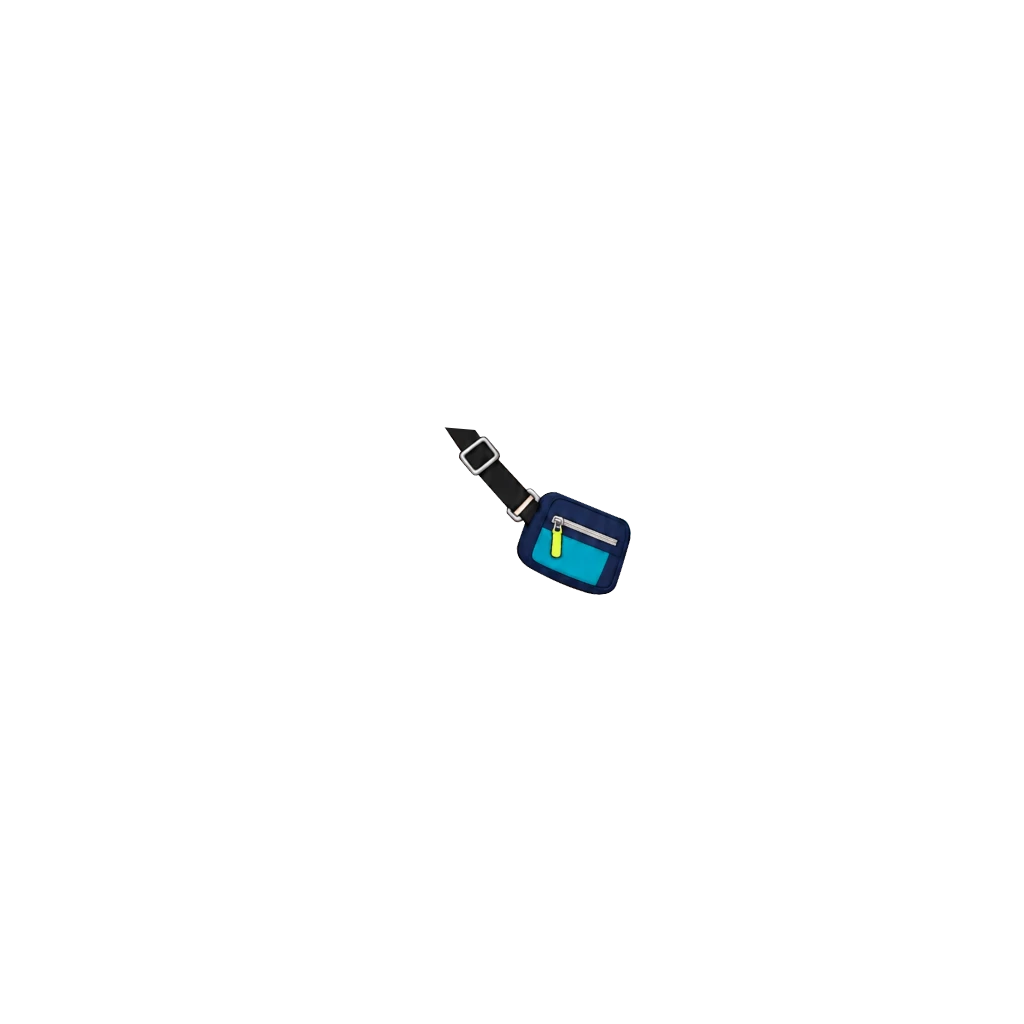
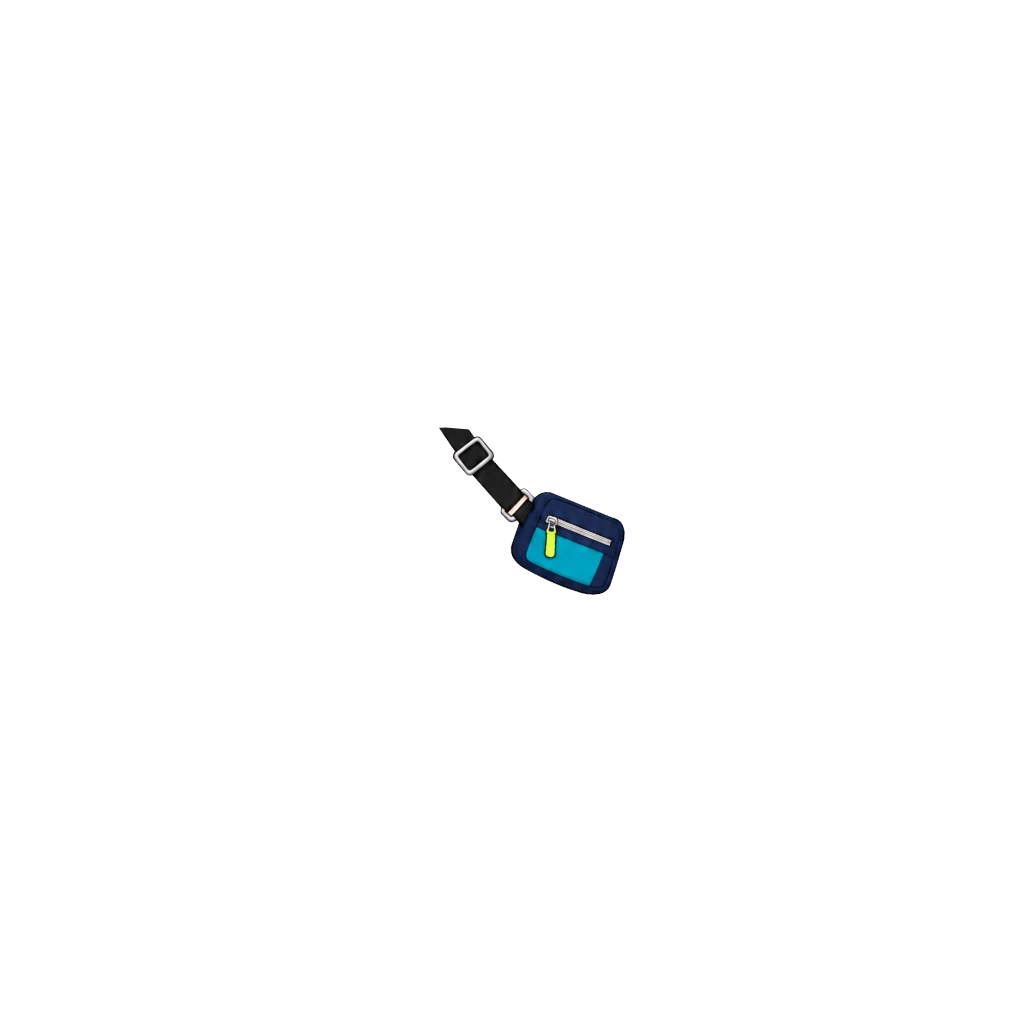
번개 크로스백(번개 스케이터): 왼쪽으로 6, 끈 윗끝은 후드 아래 선에 다시 맞춤 (#1000)
Claude-Session: https://claude.ai/code/session_018maNuYqDfFyRSe9uKpZhPR

Changed region(s): [[0.4375, 0.4062, 0.625, 0.5938]]

diff --git a/src/data/avatarEquipment.js b/src/data/avatarEquipment.js
@@ -523,8 +523,9 @@ export const AVATAR_CATALOG = [
      사용자 참고 그림(얼굴 매칭 0.965)대로 왼쪽 어깨(452,418)에서 오른쪽 가슴 아래로 — 끈 윗끝·노란 지퍼 고리(556,543) 두 점 맞춤, 배율 0.723·-6.0°.
      옷 위·목 장식 아래 z 38. 상자 (434,411,631,595).
      [2026-10-11] 번개 스케이터만 — 끈 윗끝을 후드 아래 접힌 선(425,428)→(475,430)에서 잘라 후드 밑에서 나오게, 그 선을 후드 선 색으로 이어 그림(topVariant).
-     다른 옷은 후드가 없어 자르면 끈이 떠 보여 그대로. */
-  { id: "back_cross_boy", slot: "back", label: "번개 크로스백", emoji: "⚡", price:DECOR_PRICE.rare, rarity: "rare", theme: "common", forGender: "boy", z: 38, img: "assets/avatar/back/cross-bag-boy.webp", topVariant: { top_board_boy: { img: "assets/avatar/back/cross-bag-board-boy.webp" } }, thumb: "assets/avatar/thumb/back_cross_boy.webp" },
+     다른 옷은 후드가 없어 자르면 끈이 떠 보여 그대로.
+     [2026-10-11] 번개 스케이터 — 가방 전체 왼쪽으로 6(끈 윗끝 (446,418)·지퍼 고리 (550,543)), 다시 후드 아래 선에서 자름(?v=2). */
+  { id: "back_cross_boy", slot: "back", label: "번개 크로스백", emoji: "⚡", price:DECOR_PRICE.rare, rarity: "rare", theme: "common", forGender: "boy", z: 38, img: "assets/avatar/back/cross-bag-boy.webp", topVariant: { top_board_boy: { img: "assets/avatar/back/cross-bag-board-boy.webp?v=2" } }, thumb: "assets/avatar/thumb/back_cross_boy.webp" },
   /* 들꽃 크로스백 [2026-10-05] — 여아. 갈색 가죽 크로스백(흰 들꽃 장식), 사용자 원화 230×343. 들꽃 탐험가 옷과 짝.
      사용자 배치 참고 그림(얼굴 매칭 0.915)에 맞춤 — 가방 몸통 매칭(0.986) 배율 0.73·-1° 회전, 끈·가방 이음매 (526,568).
      끈은 가방에서 떼어 옷깃 아래 끝(463,421)까지 늘이고(×0.998) y419 위는 지워 옷깃 밑으로 들어가 보이게.

diff --git a/art-src/README.md b/art-src/README.md
@@ -646,4 +646,4 @@ bbox로 여백만 잘라내고 배포본은 높이 480px로 축소했다(전부 
 | sky-bag-girl-src.webp | **하늘 가방 원화 여아 (사용자 원화 2026-10-11)** — 크림색 편지 봉투 가방·분홍 하트·하늘색 끈 한 장, 파랑 우편부와 짝. 참고 그림(얼굴 매칭 0.917)대로 끈 윗끝 (442,384)·하트 (594,573) 두 점 맞춤 배율 0.730·-0.3°, z 38. 탑재 상자 (436,382,630,612). 들꽃 탐험가만 가방 왼쪽 7(크기 그대로 끈 윗끝 중심 회전, 하트 (587,578), sky-bag-vest-girl.webp). 상점 그림은 원화를 세로 160px 로 | avatar/back/sky-bag-girl.webp · thumb/back_sky_girl.webp |
 | rainbow-umbrella-girl-src.webp | **무지개 우산 원화 여아 (사용자 원화 2026-10-11)** — 접은 무지개 우산·분홍 손잡이·청록 끈 88×555, 노란 우비룩과 짝. 참고 그림(얼굴 매칭 0.951)대로 왼손(화면 기준)에 — 배율 0.62·원점 (353,600), 손잡이 고리는 손 안, 겹치는 손을 위에 다시 그림, z 48. 이후 사용자 배치대로 고리가 손가락에 걸리게 원점 (364,628), 고리 끝은 지움(?v=2). → 사용자가 고른 후보로 고리 끝은 남김(?v=3). 탑재 상자 (353,596,408,944). 상점 그림은 원화를 세로 160px 로 | avatar/hand/rainbow-umbrella-girl.webp · thumb/hand_umbrella_girl.webp |
 | (원본 같음) rainbow-umbrella·cookie-bag *-src.webp | **달빛 마법사 전용 (2026-10-11)** — 마법사 옷 그림이 손을 따로 그려(왼쪽 18, 치마를 쥔 모양) 몸 그림 손으로 덮으면 잘려 보였다. 옷 그림의 손(피부 덩어리+윤곽)으로 덮고 우산·쿠키 가방을 왼쪽 18에 둠 | avatar/hand/rainbow-umbrella-magic-girl.webp · avatar/back/cookie-bag-magic-girl.webp |
-| cross-bag-boy-src.webp | **번개 크로스백 원화 남아 (사용자 원화 2026-10-11)** — 남색·청록 크로스백·노란 지퍼 고리·검정 끈 한 장, 번개 스케이터와 짝. 참고 그림(얼굴 매칭 0.965)대로 끈 윗끝 (452,418)·지퍼 고리 (556,543) 두 점 맞춤 배율 0.723·-6.0°, z 38. 탑재 상자 (434,411,631,595). 번개 스케이터만 끈 윗끝을 후드 아래 선에서 자름(cross-bag-board-boy.webp). 상점 그림은 원화를 세로 160px 로 | avatar/back/cross-bag-boy.webp · thumb/back_cross_boy.webp |
+| cross-bag-boy-src.webp | **번개 크로스백 원화 남아 (사용자 원화 2026-10-11)** — 남색·청록 크로스백·노란 지퍼 고리·검정 끈 한 장, 번개 스케이터와 짝. 참고 그림(얼굴 매칭 0.965)대로 끈 윗끝 (452,418)·지퍼 고리 (556,543) 두 점 맞춤 배율 0.723·-6.0°, z 38. 탑재 상자 (434,411,631,595). 번개 스케이터만 끈 윗끝을 후드 아래 선에서 자름(cross-bag-board-boy.webp). 이후 왼쪽으로 6 옮겨 다시 자름(?v=2). 상점 그림은 원화를 세로 160px 로 | avatar/back/cross-bag-boy.webp · thumb/back_cross_boy.webp |
